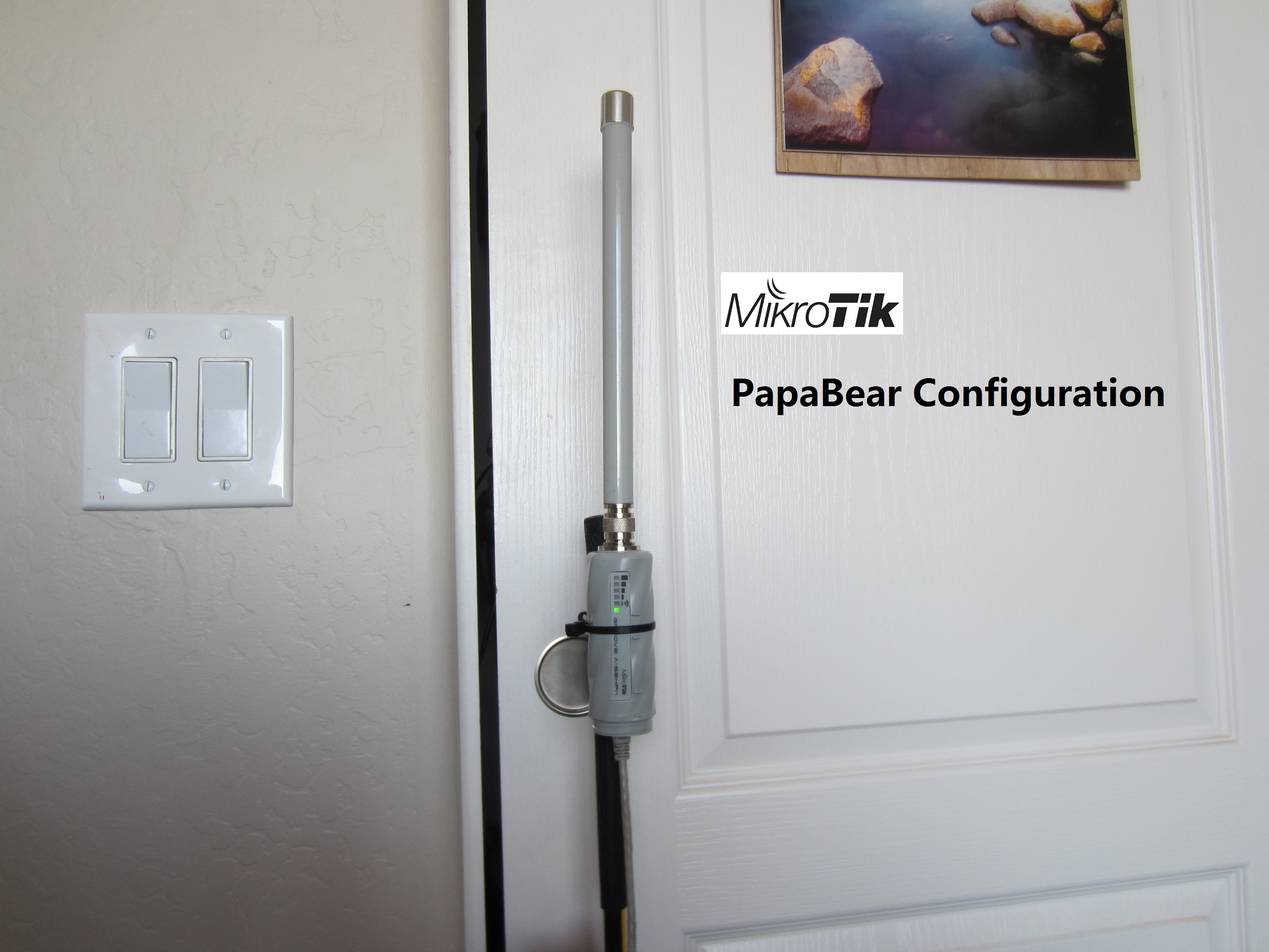
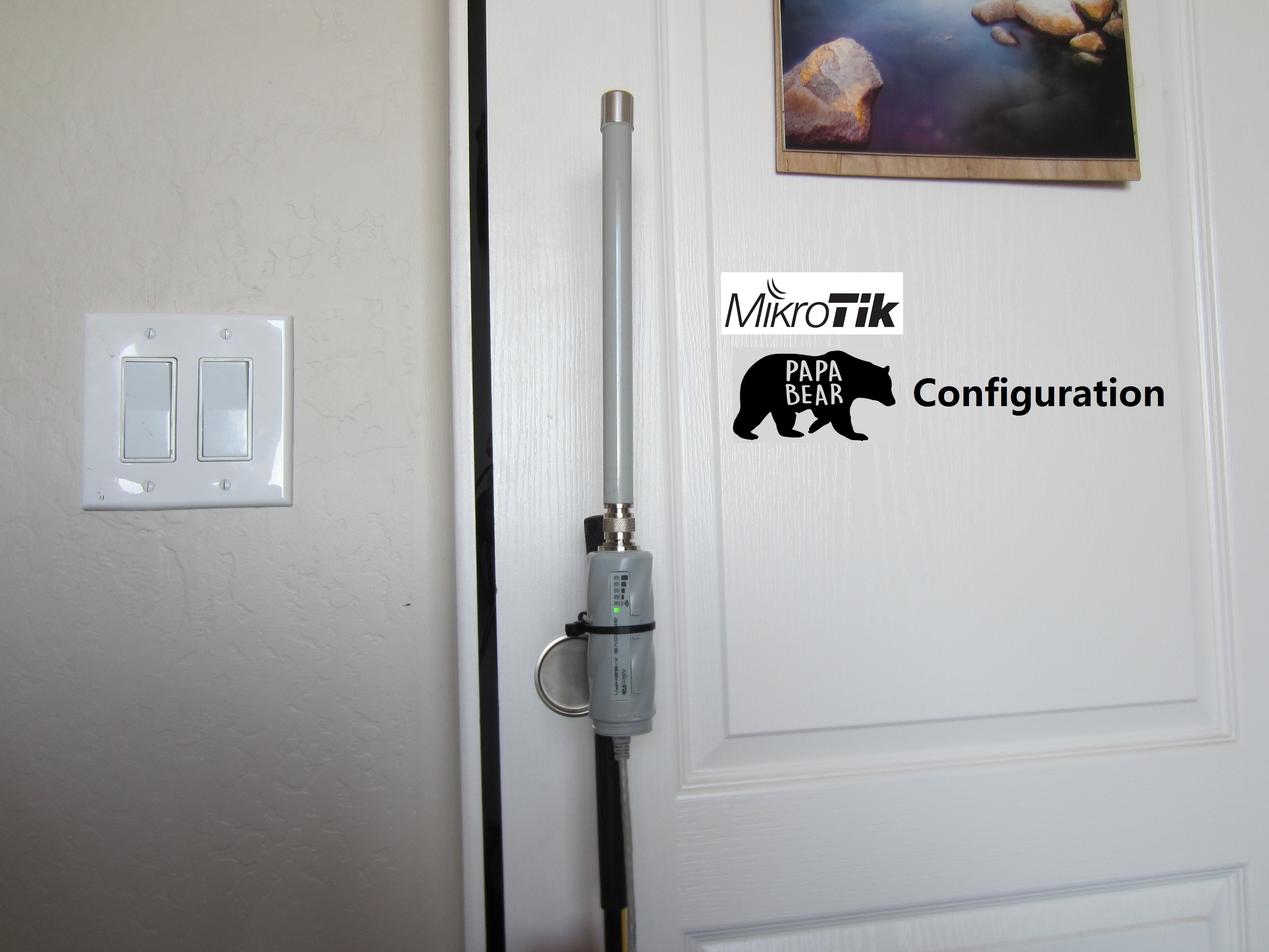
new cover img for MikroTik PapaBear Configuration

Changed region(s): [[0.5625, 0.375, 0.7188, 0.4688]]

diff --git a/docs_priv/post/post_003/netjsonconfig/index.html b/docs_priv/post/post_003/netjsonconfig/index.html
@@ -23,7 +23,7 @@ Testing &#34;django-netjsonconfig&#34;
 	<meta name="author" content="John Reed" />
 	<meta name="description" content="A task came up in Google Code-in which asked me to install the django-netjsonconfig module by OpenWISP. Furthermore, I&amp;rsquo;m also supposed to share the challenges I faced during the set-up process as a sort of feedback. I&amp;rsquo;ll be trying be concise in this post so, without further ado, I&amp;rsquo;m beginning with this post.
 Installing &amp;ldquo;django-netjsonconfig&amp;rdquo; The installation instructions for this this module have been well-documented on its GitHub repository. So I began the installation by creating a Python 2." />
-<meta name="generator" content="Hugo 0.44" />
+<meta name="generator" content="Hugo 0.46" />
 
 <link rel="shortcut icon" href="img/defaultFav.ico">
 

diff --git a/docs/post/post_002/cdc3_host/index.html b/docs/post/post_002/cdc3_host/index.html
@@ -24,7 +24,7 @@ CDC3_Host
 	<meta name="description" content="Quick Summary This document describes the architecture of the CDC3 Host Interface, where the platform for execution is a Linux box. &amp;lsquo;Interface&amp;rsquo; is a physical USB connection between the Linux box and the CDC3 Control Processor.
 The Host Interface implements a fairly standard packet exchange mechanism, where data packets of size LESS THAN 256 are exchanged with the CDC3 Processor.
 serial_recv Module The serial_recv Module accepts input packets from the CDC3 Processor, and then routes them forward to other modules to do the actual work that is requested." />
-<meta name="generator" content="Hugo 0.44" />
+<meta name="generator" content="Hugo 0.46" />
 
 <link rel="shortcut icon" href="img/defaultFav.ico">
 

diff --git a/docs_priv/post/post_006/gci/index.html b/docs_priv/post/post_006/gci/index.html
@@ -23,7 +23,7 @@ Google Code-in with OpenWISP
 	<meta name="author" content="John Reed" />
 	<meta name="description" content="Recently I&amp;rsquo;ve been participating in Google Code-in which is Google&amp;rsquo;s initiative to introduce young minds to the concept of FOSS, that is Free or Open-Source Softwares. This post is for sharing my experiences with GCI, as the title suggests. So let&amp;rsquo;s just get on it.
 It all began while I was returning from an outing on 5 December, 2017 and was searching the internet for Google Science Fair to check if I could participate in it or not." />
-<meta name="generator" content="Hugo 0.44" />
+<meta name="generator" content="Hugo 0.46" />
 
 <link rel="shortcut icon" href="img/defaultFav.ico">
 

diff --git a/docs_priv/post/post_004/mos/index.html b/docs_priv/post/post_004/mos/index.html
@@ -22,7 +22,7 @@ Mongoose OS on ESPer
 <meta http-equiv="X-UA-Compatible" content="ie=edge">
 	<meta name="author" content="John Reed" />
 	<meta name="description" content="Recently I&amp;rsquo;ve got my hands on the craved-for IoT ESP32, thanks to DFRobot, and have been tinkering with it ever since. I&amp;rsquo;m really amazed by it since it packs both Bluetooth and WiFi in a small yet powerful unit. Since I received the MCU rather than the module, so, to use it, I made myself a breakout board named ESPer(because, why not? 😄). Feel free to check out its Instructions over here." />
-<meta name="generator" content="Hugo 0.44" />
+<meta name="generator" content="Hugo 0.46" />
 
 <link rel="shortcut icon" href="img/defaultFav.ico">
 

diff --git a/docs/post/post_009/githubhugo/index.html b/docs/post/post_009/githubhugo/index.html
@@ -24,7 +24,7 @@ Github Plus Hugo
 	<meta name="description" content="Hugo is an open-source static website generator. It has many themes and many layouts ready to choose from. Content in Hugo consists of posts that you add using markdown format, and the posts are arranged in a logical directory tree structure. See the Hugo site here: Hugo Website.
 I put together 3 Hugo sites, using the same set of post files. Have a quick look:
  ice-energy.github.io/jreed ice-energy.github.io/user1 ice-energy.github.io/user9  3 questions you probably have after looking at that:" />
-<meta name="generator" content="Hugo 0.44" />
+<meta name="generator" content="Hugo 0.46" />
 
 <link rel="shortcut icon" href="img/defaultFav.ico">
 

diff --git a/docs/post/post_007/plc_controls_icebear/index.html b/docs/post/post_007/plc_controls_icebear/index.html
@@ -23,7 +23,7 @@ IceBear Control Using PLC
 	<meta name="author" content="John Reed" />
 	<meta name="description" content="Quick Summary: An off-the-shelf external controller may be used to interface directly with the CDC controller to control the IceBears&amp;rsquo; cycle of Making Ice and Providing Cooling. An example scenario will be shown using a PLC-type controller with a Modbus interface that is used to control an IceBear AND ALSO extract data from it.
 CDC Controller GPIO Inputs: The CDC controller has 8 GPIO inputs as shown in the above picture:" />
-<meta name="generator" content="Hugo 0.44" />
+<meta name="generator" content="Hugo 0.46" />
 
 <link rel="shortcut icon" href="img/defaultFav.ico">
 

diff --git a/docs/post/post_008/wallmounted_desktop/index.html b/docs/post/post_008/wallmounted_desktop/index.html
@@ -24,7 +24,7 @@ Wall Mounted Desktop
 	<meta name="description" content="I put together this computer largely from spare parts and Amazon points from my Amex. So barely cost anything, and I thought it would be perfect as a server for Zoneminder.
 This was built with the intention of putting it in an enclosure. It started out sitting on my bookshelf, where I used some half-inch standoffs to raise it up. Here&amp;rsquo;s a pic:
 It sat there a few weeks. &amp;nbsp; I looked at a few enclosures, almost threw down on one." />
-<meta name="generator" content="Hugo 0.44" />
+<meta name="generator" content="Hugo 0.46" />
 
 <link rel="shortcut icon" href="img/defaultFav.ico">
 

diff --git a/docs/post/post_005/goisforlovers/index.html b/docs/post/post_005/goisforlovers/index.html
@@ -24,7 +24,7 @@ body, body.pushable {
 	<meta name="description" content="Hugo uses the excellent go html/template library for its template engine. It is an extremely lightweight engine that provides a very small amount of logic. In our experience that it is just the right amount of logic to be able to create a good static website. If you have used other template systems from different languages or frameworks you will find a lot of similarities in go templates.
 
 " />
-<meta name="generator" content="Hugo 0.44" />
+<meta name="generator" content="Hugo 0.46" />
 
 <link rel="shortcut icon" href="img/defaultFav.ico">
 

diff --git a/docs/post/post_010/mikrotik_papabear/index.html b/docs/post/post_010/mikrotik_papabear/index.html
@@ -25,7 +25,7 @@ MikroTik PapaBear Configuration
 The basic config strategy is: Wisp AP/Bridged.
 Translation: it&amp;rsquo;s an WiFi Access Point to an existing network, where all the traffic is bridged to the existing router.
 In practice then, users can connect to this Access Point in the standard way, and it&amp;rsquo;s all one big happy (common) network." />
-<meta name="generator" content="Hugo 0.44" />
+<meta name="generator" content="Hugo 0.46" />
 
 <link rel="shortcut icon" href="img/defaultFav.ico">
 

diff --git a/docs/categories/systems/solutions/index.html b/docs/categories/systems/solutions/index.html
@@ -24,7 +24,7 @@ Category | systems/solutions
 <meta http-equiv="X-UA-Compatible" content="ie=edge">
 	<meta name="author" content="John Reed" />
 	<meta name="description" content="My Projects: A Placeholder for Notes &amp; Documentation" />
-<meta name="generator" content="Hugo 0.44" />
+<meta name="generator" content="Hugo 0.46" />
 
 <link rel="shortcut icon" href="img/defaultFav.ico">
 

diff --git a/docs/categories/development/index.html b/docs/categories/development/index.html
@@ -24,7 +24,7 @@ Category | development
 <meta http-equiv="X-UA-Compatible" content="ie=edge">
 	<meta name="author" content="John Reed" />
 	<meta name="description" content="My Projects: A Placeholder for Notes &amp; Documentation" />
-<meta name="generator" content="Hugo 0.44" />
+<meta name="generator" content="Hugo 0.46" />
 
 <link rel="shortcut icon" href="img/defaultFav.ico">
 

diff --git a/docs_priv/categories/programming/index.html b/docs_priv/categories/programming/index.html
@@ -24,7 +24,7 @@ Category | programming
 <meta http-equiv="X-UA-Compatible" content="ie=edge">
 	<meta name="author" content="John Reed" />
 	<meta name="description" content="My Projects: A Placeholder for Notes &amp; Documentation" />
-<meta name="generator" content="Hugo 0.44" />
+<meta name="generator" content="Hugo 0.46" />
 
 <link rel="shortcut icon" href="img/defaultFav.ico">
 
